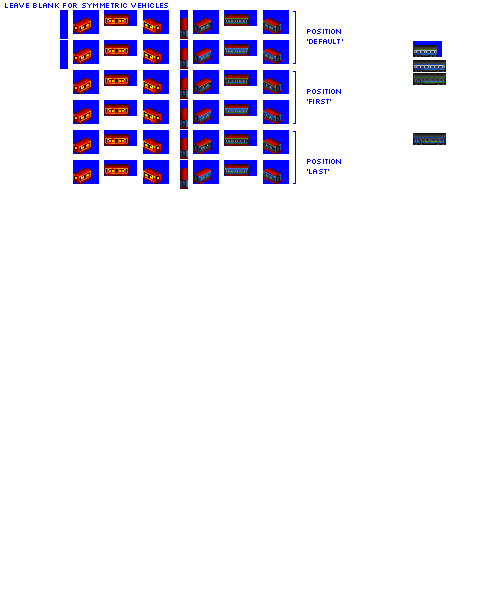
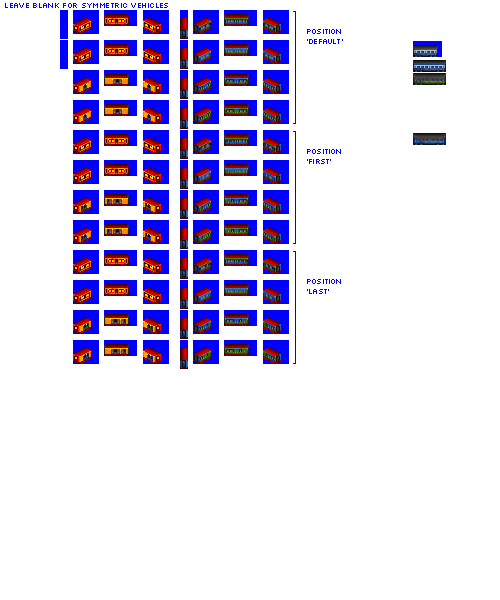
Change: merge gen 6 suburban passenger coaches into gen 5

diff --git a/src/vehicles/pony/suburban_passenger_cars_pony.py b/src/vehicles/pony/suburban_passenger_cars_pony.py
@@ -113,7 +113,7 @@ def main(**kwargs):
         base_numeric_id=20370,
         gen=5,
         subtype="B",
-        livery_group_name="gen_5_suburban_pax_liveries",  # override default liveries from gestalt
+        livery_group_name="gen_5_6_suburban_pax_liveries",  # override default liveries from gestalt
         sprites_complete=True,
     )
 
@@ -128,39 +128,7 @@ def main(**kwargs):
         base_numeric_id=20830,
         gen=5,
         subtype="C",
-        livery_group_name="gen_5_suburban_pax_liveries",  # override default liveries from gestalt
-        sprites_complete=True,
-    )
-
-    model_def.add_unit_def(
-        unit_cls_name="PaxCarUnit", chassis="4_axle_solid_pax_mail_32px"
-    )
-
-    # gen 6 broadly same as gen 5, but new liveries (any other difference?)
-
-    result.append(model_def)
-
-    model_def = ModelDef(
-        schema_name="PassengerSuburbanCar",
-        base_numeric_id=20850,
-        gen=6,
-        subtype="B",
-        livery_group_name="gen_6_suburban_pax_liveries",  # override default liveries from gestalt
-        sprites_complete=True,
-    )
-
-    model_def.add_unit_def(
-        unit_cls_name="PaxCarUnit", chassis="4_axle_solid_pax_mail_24px"
-    )
-
-    result.append(model_def)
-
-    model_def = ModelDef(
-        schema_name="PassengerSuburbanCar",
-        base_numeric_id=20870,
-        gen=6,
-        subtype="C",
-        livery_group_name="gen_6_suburban_pax_liveries",  # override default liveries from gestalt
+        livery_group_name="gen_5_6_suburban_pax_liveries",  # override default liveries from gestalt
         sprites_complete=True,
     )
 

diff --git a/src/rosters/pony.py b/src/rosters/pony.py
@@ -889,13 +889,11 @@ def main():
                 ("RAIN_OR_SHINE", 0),
                 ("BANGER_BLUE", 2),
             ],
-            "gen_5_suburban_pax_liveries": [
+            "gen_5_6_suburban_pax_liveries": [
                 ("SURE_PACE", 1),
                 ("FRUIT_RIPPLE", 0),
-            ],
-            "gen_6_suburban_pax_liveries": [
-                ("VAPID_VOYAGER", 1),
-                ("VINYL_VECTOR", 0),
+                ("VINYL_VECTOR", 2),
+                ("VAPID_VOYAGER", 3),
             ],
             "gen_5_diesel_pax_railcar_liveries": [
                 ("FRUIT_RIPPLE", 0),
@@ -904,6 +902,10 @@ def main():
             "gen_5_electric_pax_railcar_liveries": [
                 ("SURE_PACE", 1),
                 ("FRUIT_RIPPLE", 0),
+            ],
+            "gen_6_electric_pax_railcar_liveries": [
+                ("VAPID_VOYAGER", 0),
+                ("VINYL_VECTOR", 1),
             ],
             "default_mail_liveries": [
                 ("INVERSIONS", 3),

diff --git a/src/vehicles/pony/zeus.py b/src/vehicles/pony/zeus.py
@@ -20,7 +20,7 @@ def main(**kwargs):
         # introduce early by design
         intro_year_offset=-12,
         # this railcar type specifies liveries per model_def for flexibility
-        livery_group_name="gen_6_suburban_pax_liveries",
+        livery_group_name="gen_6_electric_pax_railcar_liveries",
         sprites_complete=True,
     )
 
